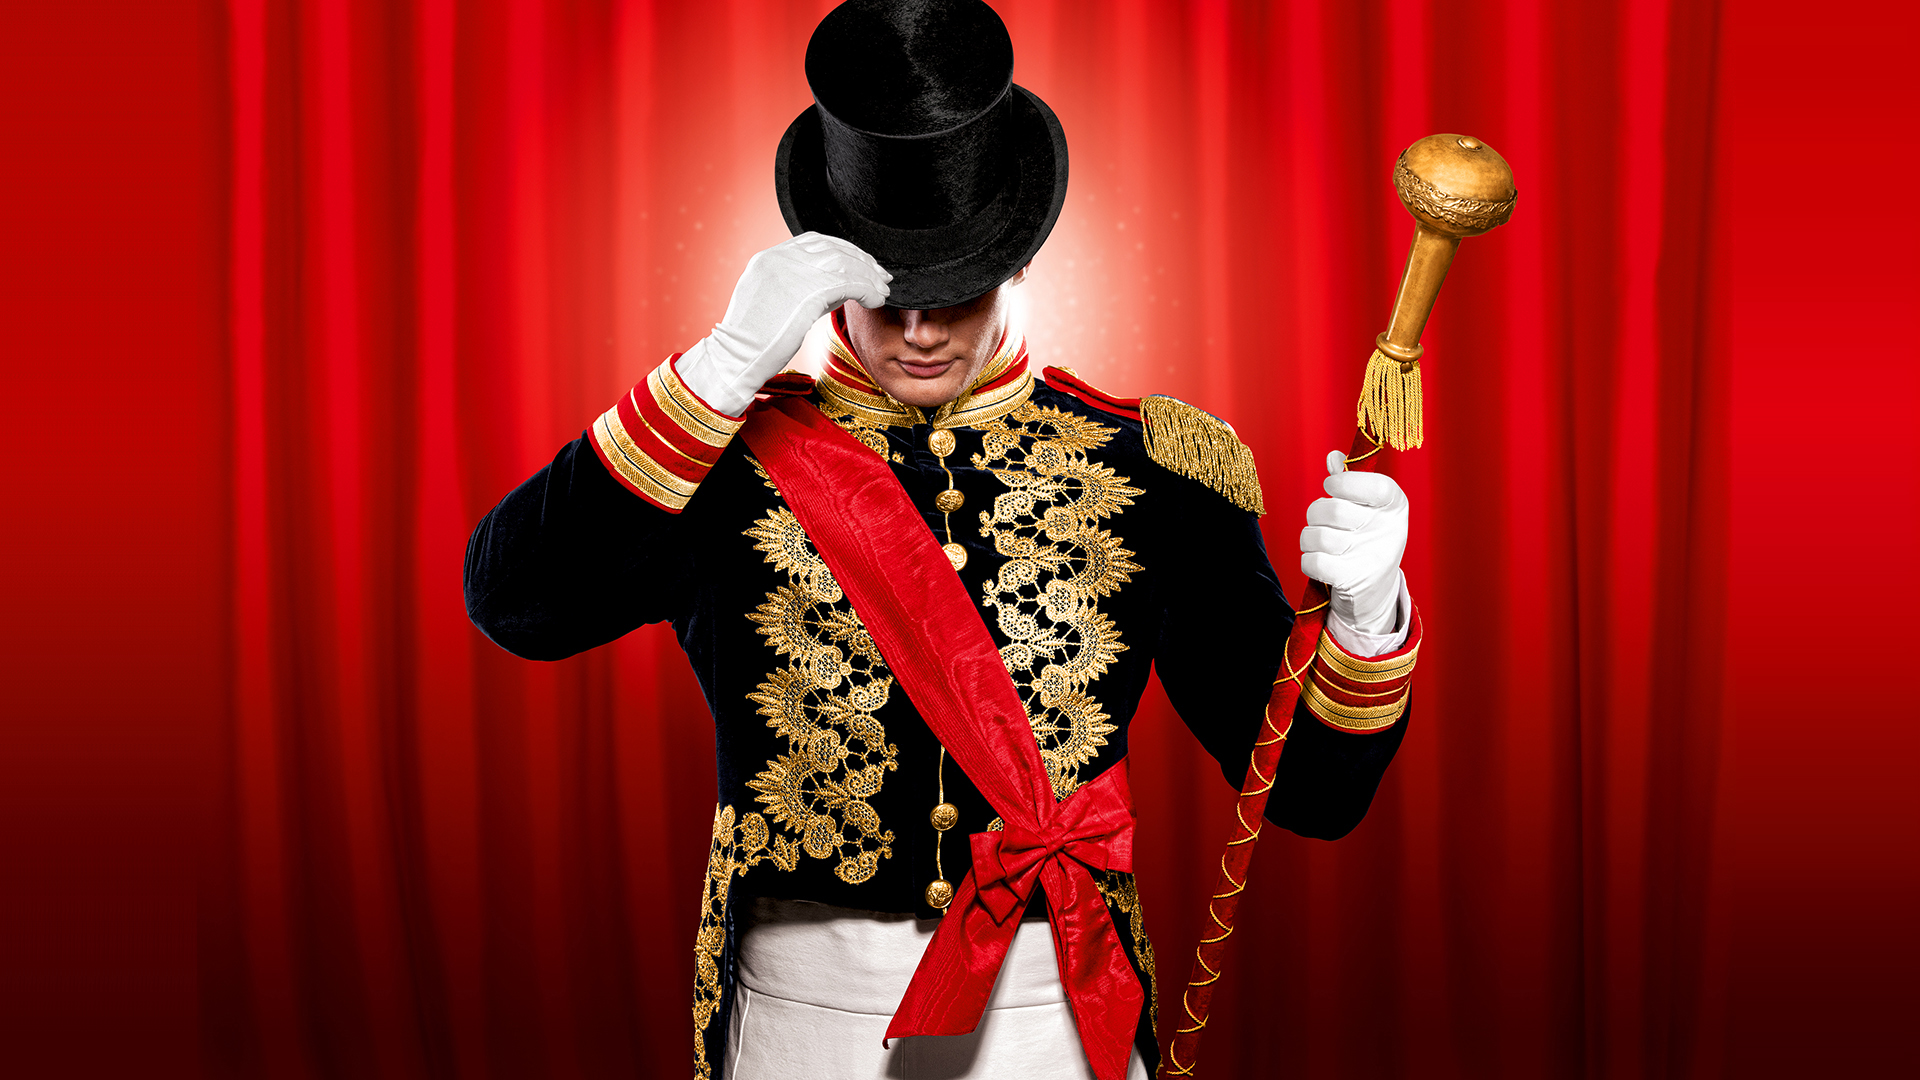
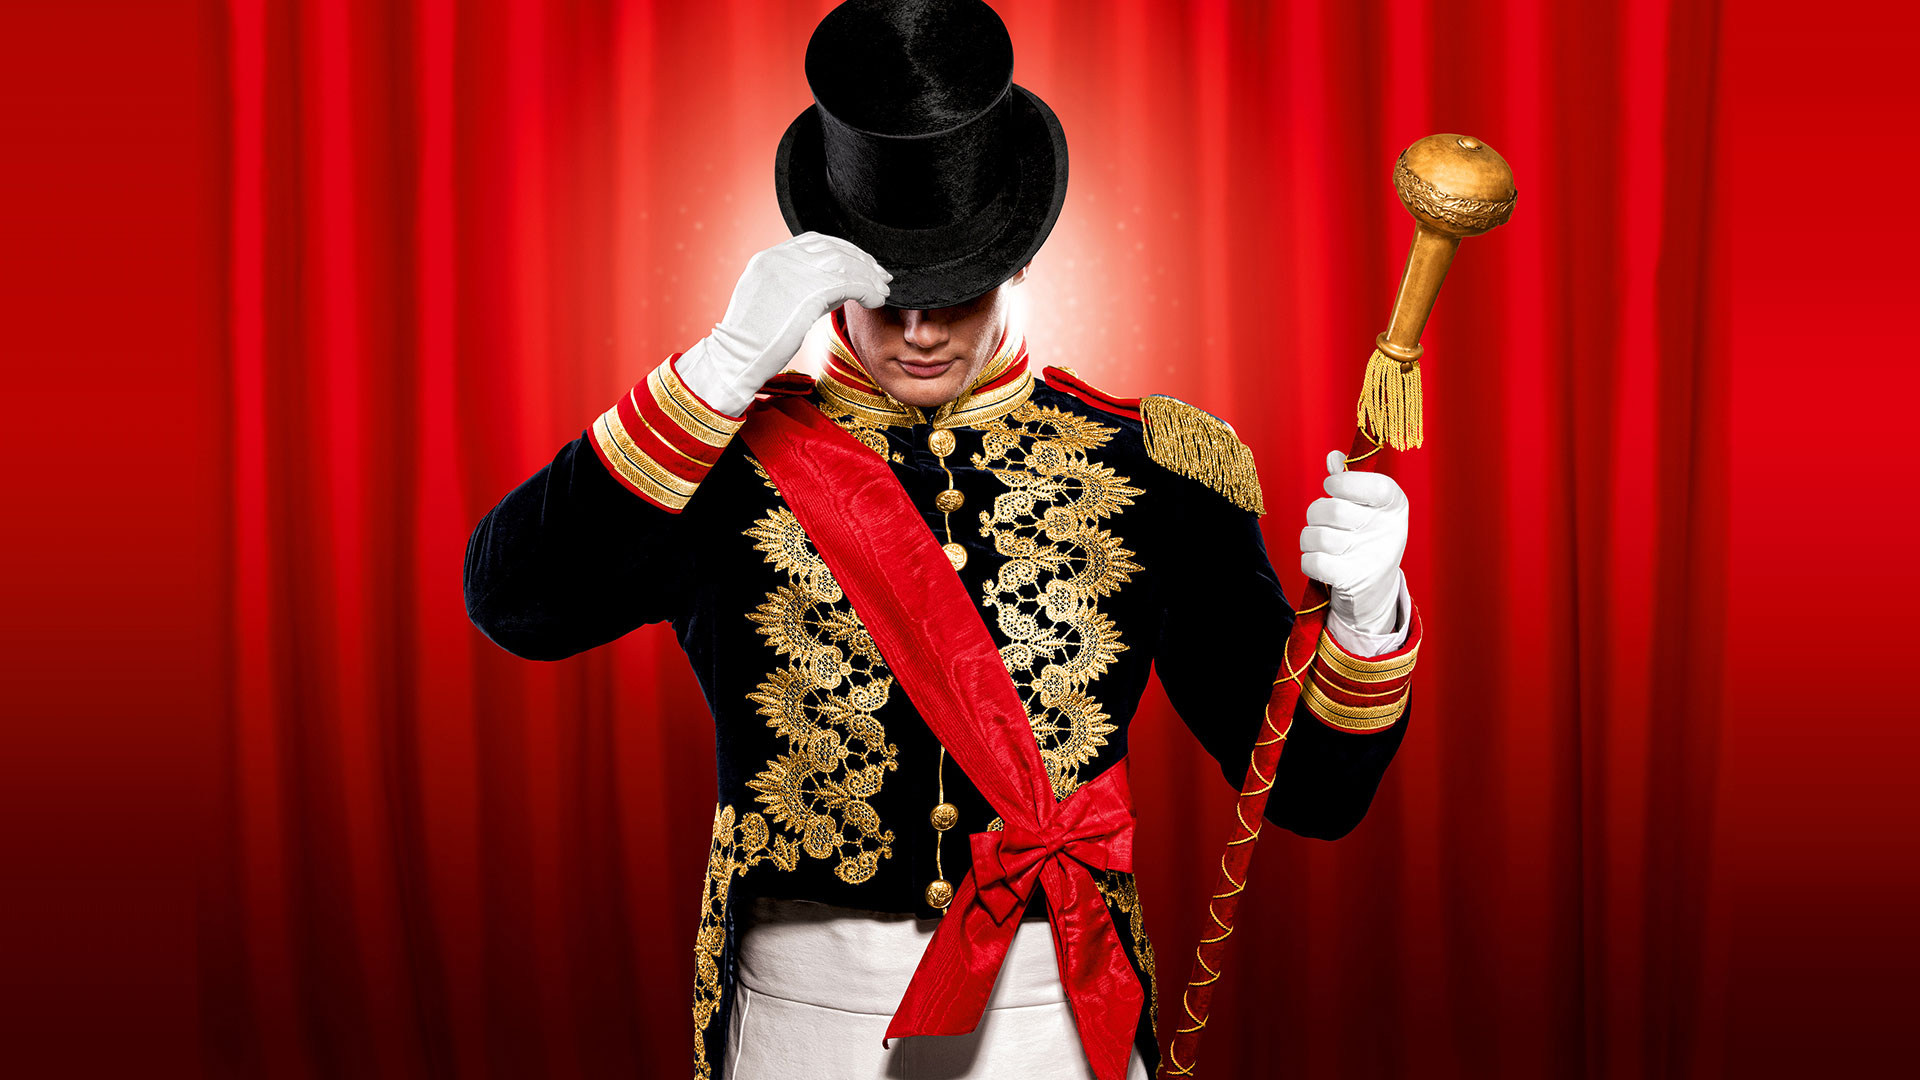
změna productView

diff --git a/public/css/styles.css b/public/css/styles.css
@@ -16,9 +16,6 @@ table tr td{
     background: rgba(200,175, 175, 0.86);
     border: 2px solid rgb(248,216,219);
     border-radius: 3px;
-    -webkit-box-shadow: inset 1px 0px 21px 11px rgba(200, 175, 175, 0.86);
-    -moz-box-shadow:    inset 1px 0px 21px 11px rgba(200, 175, 175, 0.86);
-    box-shadow:         inset 1px 0px 21px 11px rgba(200, 175, 175, 0.86);
 }
 
 .transparentCategory{
@@ -140,7 +137,9 @@ h1{
 
 .product{
     margin-top:60px;
-    padding:40px;
+    margin-left:40px;
+    padding-left:25px;
+    padding-top:20px;
     min-width:300px;
     max-width:850px;
     overflow:auto;
@@ -200,25 +199,25 @@ h1{
 
 }
 .productDescription{
-    margin-top:10px;
+    margin-top:20px;
     float:left;
     width:800px;
     font-size:18px;
     font-family: sans-serif;
-    padding-top:10px;
-    padding-bottom:10px;
+    margin-bottom:30px
 }
 
 .productDescriptionGr{
     margin-top:10px;
     float:left;
     width:800px;
-    font-size:18px;
+    font-size:20px;
     font-family: sans-serif;
+    margin-bottom: 22px;
+    padding:8px;
 
 
-    padding-top:10px;
-    padding-bottom:10px;
+    
 }
 .pTable tr td{
     font-size:20px;
@@ -227,12 +226,7 @@ h1{
     padding-top:8px;
     padding-bottom:8px;
 }
-.bottomLine{
-    border-bottom:1px solid rgb(248,216,219);  
-}
-.topLine{
-    border-top:1px solid rgb(248,216,219);  
-}
+
 .pTable{
     width:750px;
     font-size:18px;
@@ -269,6 +263,7 @@ h1{
     width:800px;
     float:left;
     margin-top:5px;
+    display:none;
 }
 .additionalPhotos img{
     height:80px;
@@ -277,14 +272,13 @@ h1{
 }
 .recommended{
     float:left;
-    margin-top:15px;
     width:800px;
     height:200px;
 
 }
 .recommended div{
-    height:200px;
-    width:121px;
+    height:105px;
+    width:100px;
     float:left;
     margin-right:5px;
     text-align:center;
@@ -300,21 +294,34 @@ h1{
     font-size:19px;
     font-family: sans-serif;
     font-weight: bold;
-    text-decoration: underline;
-    margin-bottom:5px;
+    margin-bottom:15px;
     margin-top:5px;
+    position: relative;
+    overflow: hidden;
 }
-.recTitle{
-    float:left;
-    width:121px;
+.recommendedNadpis:after{
+
+    display: inline-block;
+    content: "";
+    height: 2px;
+    background: RGB(150,120,120);
+    position: absolute;
+    width: 100%;
+    top: 50%;
+    margin-top: -2px;
+    margin-left: 10px;
+    -webkit-box-shadow: 0px 2px 1px 0px rgb(204, 172, 173);
+-moz-box-shadow:    0px 2px 1px 0px rgb(204, 172, 173);
+box-shadow:         0px 2px 1px 0px rgb(204, 172, 173);
+
 }
 .recImg{
     float:left;
     margin-right:5px;
 }
 .recImg img{
-    height:160px;
-    width:120px;
+    height:105px;
+    width:100px;
 }
 
 

diff --git a/public/css/style_basic_bg1.css b/public/css/style_basic_bg1.css
@@ -9,7 +9,7 @@ and open the template in the editor.
 */
 
 html {
-    background-image: url('../images/karneval_bg.jpg'), url('../images/bg.jpg');
+    background-image: url('../images/karneval_bg1.jpg'), url('../images/bg.jpg');
     background-repeat: no-repeat ,repeat-x;
     background-position-x: center;
     background-attachment:fixed;
